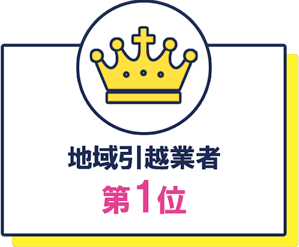
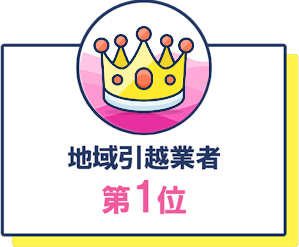
kk

Changed region(s): [[0.2408, 0.085, 0.7224, 0.5385], [0.0301, 0.1984, 1.0, 1.0], [0.3311, 0.7085, 0.6321, 0.8785]]

diff --git a/plan.html b/plan.html
@@ -232,6 +232,8 @@
     </section>
 
 
+    <!--
+    
     <section class="truck-size-section">
       <h2 class="plan-extra-title">トラックサイズの目安</h2>
       <div class="truck-size-vertical-list">
@@ -365,7 +367,12 @@
         ※サイズ・容積・荷物例はメーカー・仕様・荷姿・梱包状態によって異なります。<br>
         詳細はお気軽にご相談ください。
       </p>
+      
+      -->
+
+    <img src="img/車両サイズとか.png" alt="トラックサイズ比較イメージ" class="truck-size-img">
     </section>
+
 
 
 

diff --git a/style.css b/style.css
@@ -1135,6 +1135,16 @@ body {
   margin-top: 0.5em;
 }
 
+.zennkoku-img {
+  display: block;
+  max-width: 1200px;
+  width: 100%;
+  height: auto;
+  margin: 2em auto 0 auto;
+  border-radius: 1em;
+  box-shadow: 0 2px 12px rgba(0, 0, 0, 0.08);
+}
+
 /* レスポンシブ対応：スマホやタブレットでは縦並び */
 @media screen and (max-width: 600px) {
   .plan-summary-list {

diff --git a/plan.css b/plan.css
@@ -408,6 +408,16 @@
     text-align: center;
 }
 
+.truck-size-img {
+    display: block;
+    max-width: 1200px;
+    width: 100%;
+    height: auto;
+    margin: 2em auto 0 auto;
+    border-radius: 1em;
+    box-shadow: 0 2px 12px rgba(0, 0, 0, 0.08);
+}
+
 @media (max-width: 600px) {
     .truck-size-vertical-list {
         flex-direction: column;

diff --git a/index.html b/index.html
@@ -241,6 +241,7 @@
       <div class="plan-detail-btn-wrap">
         <a href="plan.html" class="plan-detail-btn">詳しい料金プランを見る</a>
       </div>
+      <img src="img/日本全国対応可能.png" alt="日本全国対応可能" class="zennkoku-img">
     </section>
   </main>
 
